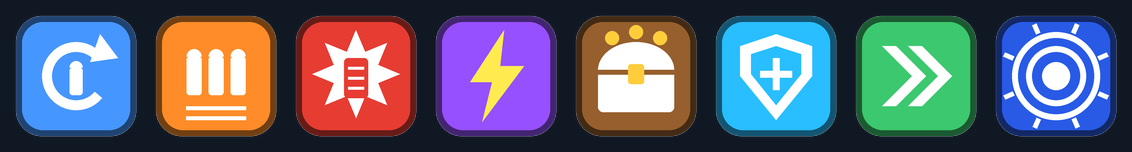
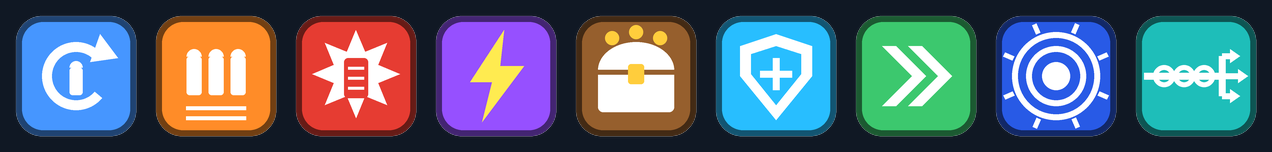
Trident Pierce pickup (Trident-Bot, 4%, +1 enemy each) and 20% slower trident seeking, refs #27
Claude-Session: https://claude.ai/code/session_01SvNoygjDzcdjP2q52Z3UTW

diff --git a/godot/Code/Test/AutoTest.cs b/godot/Code/Test/AutoTest.cs
@@ -2786,7 +2786,8 @@ public partial class AutoTest : Node
 		var perks = PlayerPerks.Of( player );
 		Check( perks is not null, "the player has no PlayerPerks" );
 		if ( perks is null ) { GD.Print( "[autotest] done" ); GetTree().Quit(); return; }
-		var total = AmmoPickup.DropChance + PlayerPerks.Table.Sum( e => e.Chance );
+		var total = AmmoPickup.DropChance + PlayerPerks.Table.Where( e => e.Kind != PerkKind.Pierce ).Sum( e => e.Chance );
+		Check( !PlayerPerks.Drops( PerkKind.Pierce ) && PlayerPerks.Table.First( e => e.Kind == PerkKind.Pierce ).Chance == 0.04f, "Trident Pierce is not a 4% drop for Trident-Bot only" );
 		GD.Print( $"[autotest] pickups: chances add to {total * 100f:0.00}% (ammo {AmmoPickup.DropChance * 100f:0}%)" );
 		Check( MathF.Abs( total - 0.345f ) < 0.0005f && AmmoPickup.DropChance == 0.3f, "the drop chances are not ammo 30% plus 4.5% of pickups" );
 
@@ -3099,6 +3100,22 @@ public partial class AutoTest : Node
 		await Wait( 1.5f );
 		GD.Print( $"[autotest] trident bot: the trident hit {TridentBolt.LastHits} crabs" );
 		Check( TridentBolt.LastHits == 1 + TridentBolt.SeekNext, $"the trident hit {TridentBolt.LastHits} crabs, not 1 and the next {TridentBolt.SeekNext} it should seek" );
+		foreach ( var c in line ) if ( IsInstanceValid( c ) ) c.QueueFree();
+
+		// A Trident Pierce pickup: it drops for Trident-Bot, and the trident seeks one more.
+		Check( PlayerPerks.Drops( PerkKind.Pierce ), "Trident Pierce does not drop for Trident-Bot" );
+		PlayerPerks.Of( player ).Give( PerkKind.Pierce );
+		await Wait( 0.3f );
+		line.Clear();
+		foreach ( var off in new[] { new Vector3( 0f, 0f, -5f ), new Vector3( 5f, 0f, -8f ), new Vector3( -5f, 0f, -11f ), new Vector3( 4f, 0f, -14f ) } )
+			line.Add( JunkCrab.Spawn( GetTree().CurrentScene, Nav.Closest( player, home + off ), 5000f ) );
+		await Wait( 0.6f );
+		low = line[0].GlobalPosition + Vector3.Up * 0.3f + (line[0].GlobalPosition - home).Flat().Normalized() * -2f;
+		along = (line[0].GlobalPosition + Vector3.Up * 0.3f - low).Normalized();
+		TridentBolt.Launch( GetTree().CurrentScene, low, low + along * 20f, along, low, shooter.CurrentDamage, player, shooter, true );
+		await Wait( 2f );
+		GD.Print( $"[autotest] trident bot: with a Trident Pierce the trident hit {TridentBolt.LastHits} crabs" );
+		Check( TridentBolt.LastHits == 2 + TridentBolt.SeekNext, $"with a Trident Pierce the trident hit {TridentBolt.LastHits} crabs, not {2 + TridentBolt.SeekNext}" );
 		foreach ( var c in line ) if ( IsInstanceValid( c ) ) c.QueueFree();
 
 		// Healing in third person: the plecos latch on and hearts pop.

diff --git a/godot/Code/Player/PlayerPerks.cs b/godot/Code/Player/PlayerPerks.cs
@@ -1,7 +1,7 @@
 using Godot;
 
 /// <summary> The pickups creatures can drop besides ammo. </summary>
-public enum PerkKind { Reload, FireRate, Explosive, Electric, Chest, Shield, Move, Blast }
+public enum PerkKind { Reload, FireRate, Explosive, Electric, Chest, Shield, Move, Blast, Pierce }
 
 /// <summary>
 /// The player's pickups (dropped by creatures, see <see cref="PerkPickup"/>): how many of each they hold, and what
@@ -18,6 +18,7 @@ public enum PerkKind { Reload, FireRate, Explosive, Electric, Chest, Shield, Mov
 /// - Movement Buff: the first adds 0.5 m/s and 10% more stamina; each more adds 5% stamina.
 /// - Biden Blast: once a wave per pickup (up to three a wave), G (RB on a pad) lets off a blue blast: 500 damage to every creature within 8 m.
 ///   (RB is also the axe on a pad: while the blast is ready it fires the blast instead.)
+/// - Trident Pierce (Trident-Bot only, 4%): each one lets a trident seek and go through one more enemy.
 /// A new game clears them. Lives on the player (a child of the PlayerController named PlayerPerks).
 /// </summary>
 public partial class PlayerPerks : Node
@@ -32,6 +33,7 @@ public partial class PlayerPerks : Node
 		(PerkKind.Shield, "Shield", "shield", 0.015f, new Color( 0.16f, 0.75f, 1f )),
 		(PerkKind.Move, "Movement Buff", "move", 0.0025f, new Color( 0.24f, 0.78f, 0.43f )),
 		(PerkKind.Blast, "Biden Blast", "blast", 0.0025f, new Color( 0.16f, 0.35f, 0.9f )),
+		(PerkKind.Pierce, "Trident Pierce", "pierce", 0.04f, new Color( 0.12f, 0.75f, 0.72f )),
 	};
 
 	public const float ReloadPerStack = 0.06f;
@@ -49,7 +51,12 @@ public partial class PlayerPerks : Node
 	public const float MoveSpeedBonus = 0.5f;   // metres per second
 	public const float BlastDamage = 500f, BlastRadius = 8f;
 
-	readonly int[] counts = new int[8];
+	readonly int[] counts = new int[Enum.GetValues<PerkKind>().Length];
+
+	/// <summary> Whether creatures drop this one for the robot being played (Trident Pierce is Trident-Bot's only). </summary>
+	public static bool Drops( PerkKind kind ) => kind != PerkKind.Pierce || RobotClass.Current == RobotClass.TridentBot;
+	/// <summary> More enemies a trident seeks after its first, one per Trident Pierce. </summary>
+	public int ExtraPierce => Count( PerkKind.Pierce );
 	public int Count( PerkKind kind ) => counts[(int)kind];
 
 	PlayerController controller;

diff --git a/godot/Code/Weapons/TridentBolt.cs b/godot/Code/Weapons/TridentBolt.cs
@@ -34,6 +34,8 @@ public partial class TridentBolt : Node3D
 	public const float ChargedSpeed = 1.8f;   // times Speed
 	/// <summary> After the first enemy it hits, a trident seeks this many more (the next closest each time) and goes through them. </summary>
 	public const int SeekNext = 2;
+	/// <summary> Seeking after the first hit flies at this share of Speed (user's choice: 20% slower, so the chain can be seen). </summary>
+	public const float SeekSpeed = 0.8f;
 	public const float SeekRange = 28f;       // metres from the last hit to the next enemy it will go for
 	public const float SeekTurn = 40f;        // radians a second it can turn while seeking (at full speed a slow turn swung wide of the next enemy)
 	int hits;
@@ -231,14 +233,14 @@ public partial class TridentBolt : Node3D
 			LastHits = hits;
 			struck.Add( owner );
 			if ( seeking == owner ) seeking = null;
-			var next = hits <= SeekNext ? NextTarget( tr.HitPosition ) : null;
+			var next = hits <= SeekNext + (PlayerPerks.Of( shooter )?.ExtraPierce ?? 0) ? NextTarget( tr.HitPosition ) : null;
 			if ( next is not null )
 			{
 				// Through it and on to the next closest enemy: none of this creature's parts stop it again; a burst of bubbles out the far side.
 				seeking = next;
 				age = 0f;
 				// It comes out of the enemy already turned onto the next one, at the plain speed so it can follow it.
-				velocity = (AimAt( next, tr.HitPosition ) - tr.HitPosition).SafeNormal() * Speed;
+				velocity = (AimAt( next, tr.HitPosition ) - tr.HitPosition).SafeNormal() * Speed * SeekSpeed;
 				foreach ( var part in CreaturePart.All )
 					if ( part.ShotOwner == owner && IsInstanceValid( part ) ) exclude.Add( part.GetRid() );
 				if ( tr.Node is CollisionObject3D body ) exclude.Add( body.GetRid() );

diff --git a/Tools/godot/make_pickup_icons.py b/Tools/godot/make_pickup_icons.py
@@ -119,16 +119,30 @@ def blast_icon():
     return img
 
 
+def pierce_icon():
+    img, d = badge((30, 190, 185))
+    # A trident run through three enemies.
+    for x in (32, 52, 72):
+        circle(d, x, 64, 11, fill=None, outline=W, width=5)
+    line(d, [(12, 64), (90, 64)], 7)
+    line(d, [(90, 44), (90, 84)], 7)
+    for y, tip in ((44, 108), (64, 116), (84, 108)):
+        line(d, [(90, y), (tip - 8, y)], 6)
+        poly(d, [(tip - 10, y - 7), (tip, y), (tip - 10, y + 7)])
+    return img
+
+
 ICONS = {
     "reload": reload_icon, "firerate": firerate_icon, "explosive": explosive_icon, "electric": electric_icon,
     "chest": chest_icon, "shield": shield_icon, "move": move_icon, "blast": blast_icon,
+    "pierce": pierce_icon,
 }
 
 if __name__ == "__main__":
     os.makedirs(OUT, exist_ok=True)
     for name, make in ICONS.items():
         make().resize((128, 128), Image.LANCZOS).save(os.path.join(OUT, name + ".png"))
-    sheet = Image.new("RGBA", (128 * 8 + 9 * 12, 152), (16, 24, 36, 255))
+    sheet = Image.new("RGBA", (128 * len(ICONS) + (len(ICONS) + 1) * 12, 152), (16, 24, 36, 255))
     for i, name in enumerate(ICONS):
         sheet.paste(Image.open(os.path.join(OUT, name + ".png")), (12 + i * 140, 12), Image.open(os.path.join(OUT, name + ".png")))
     sheet.save(os.path.join(os.path.dirname(__file__), "pickup_icons_sheet.png"))

diff --git a/godot/Code/Game/AlienFloaters.cs b/godot/Code/Game/AlienFloaters.cs
@@ -245,10 +245,11 @@ public partial class AlienFloaters : Node3D
 
 	static PerkKind RandomPerk()
 	{
-		var total = PlayerPerks.Table.Sum( e => e.Chance );
+		var total = PlayerPerks.Table.Where( e => PlayerPerks.Drops( e.Kind ) ).Sum( e => e.Chance );
 		var roll = Rng.Float() * total;
 		foreach ( var e in PlayerPerks.Table )
 		{
+			if ( !PlayerPerks.Drops( e.Kind ) ) continue;
 			if ( roll < e.Chance ) return e.Kind;
 			roll -= e.Chance;
 		}

diff --git a/godot/Code/Game/PerkPickup.cs b/godot/Code/Game/PerkPickup.cs
@@ -34,6 +34,7 @@ public partial class PerkPickup : Node3D
 		roll -= AmmoPickup.DropChance;
 		foreach ( var entry in PlayerPerks.Table )
 		{
+			if ( !PlayerPerks.Drops( entry.Kind ) ) continue;
 			if ( roll < entry.Chance * ChanceScale ) { Drop( at, entry.Kind ); return; }
 			roll -= entry.Chance * ChanceScale;
 		}

diff --git a/CLAUDE.md b/CLAUDE.md
@@ -94,7 +94,7 @@ itch.io. The s&box project (`Code/`, `Assets/`, the editor rules below) is the o
   draws the red health bars and the stacking damage numbers. The trident shooter (slot 3, `TridentModel.cs`,
   `TridentBolt.cs`) is the Blaster's rig with its gun stripped and a built-in-code gun on the gun bone; its station and
   the three level stations stand by the arrival pad in area 2 (`AreaTwo.PlaceStations`). A pull fires at once; keep holding 1 s after it (`PlayerWeapon.ChargeTime`)
-  for a charged next trident (faster, magical). Every trident goes through the first enemy it hits, then heat seeks the next closest `TridentBolt.SeekNext` (2) and goes through them. Its sounds (`trident_pierce`,
+  for a charged next trident (faster, magical). Every trident goes through the first enemy it hits, then heat seeks the next closest `TridentBolt.SeekNext` (2, plus one per Trident Pierce pickup) at `SeekSpeed` (0.8 of Speed) and goes through them. Its sounds (`trident_pierce`,
   `trident_flesh`, `trident_charge`, `bubble_pop`) come from `Tools/godot/make_sounds.py`; trail bubbles pop (`TridentBolt.Pop`). `ShipWreck.Kudzu` grows alien
   vines over the hull, deck and deckhouse.
 - Robot classes (`Player/RobotClass.cs`): each robot has its own weapons and mouse 4 move; both swing the axe.
@@ -236,7 +236,7 @@ itch.io. The s&box project (`Code/`, `Assets/`, the editor rules below) is the o
 - Pickups: a dead creature drops one thing at most (`PerkPickup.MaybeDrop`: 30% ammo, then `PlayerPerks.Table`'s
   chances). `Code/Player/PlayerPerks.cs` holds what the player has and what each does (faster reload, fire rate,
   explosive round `ThrownClip` (heat seeking, `SeekSpeed`), electric bullets `LightningArc` (25% chance, +5% per extra pickup), pirate chest, shield through `Health.Absorb`,
-  movement buff, the Biden Blast on the `blast` action (one a wave per pickup, up to `MaxBlastsPerWave` 3): G (RB on a pad, which fires it instead of the axe only while it is
+  movement buff, Trident Pierce (4%, Trident-Bot only: `PlayerPerks.Drops`; a trident seeks one more enemy each), the Biden Blast on the `blast` action (one a wave per pickup, up to `MaxBlastsPerWave` 3): G (RB on a pad, which fires it instead of the axe only while it is
   ready). Icons: `python Tools/godot/make_pickup_icons.py`. Dev menu: Player, Pickups. Test: `--pickups`.
 - Quality of life batch: `Creatures/Blinker.cs` blinks eyes on creatures with no lids of their own (Bloober, Rocky Shark,
   Kraken, Poseidon, mermaids, seahorses, missiles: it squashes each eye's meshes shut). The Junk Crab's eyes are on ant
